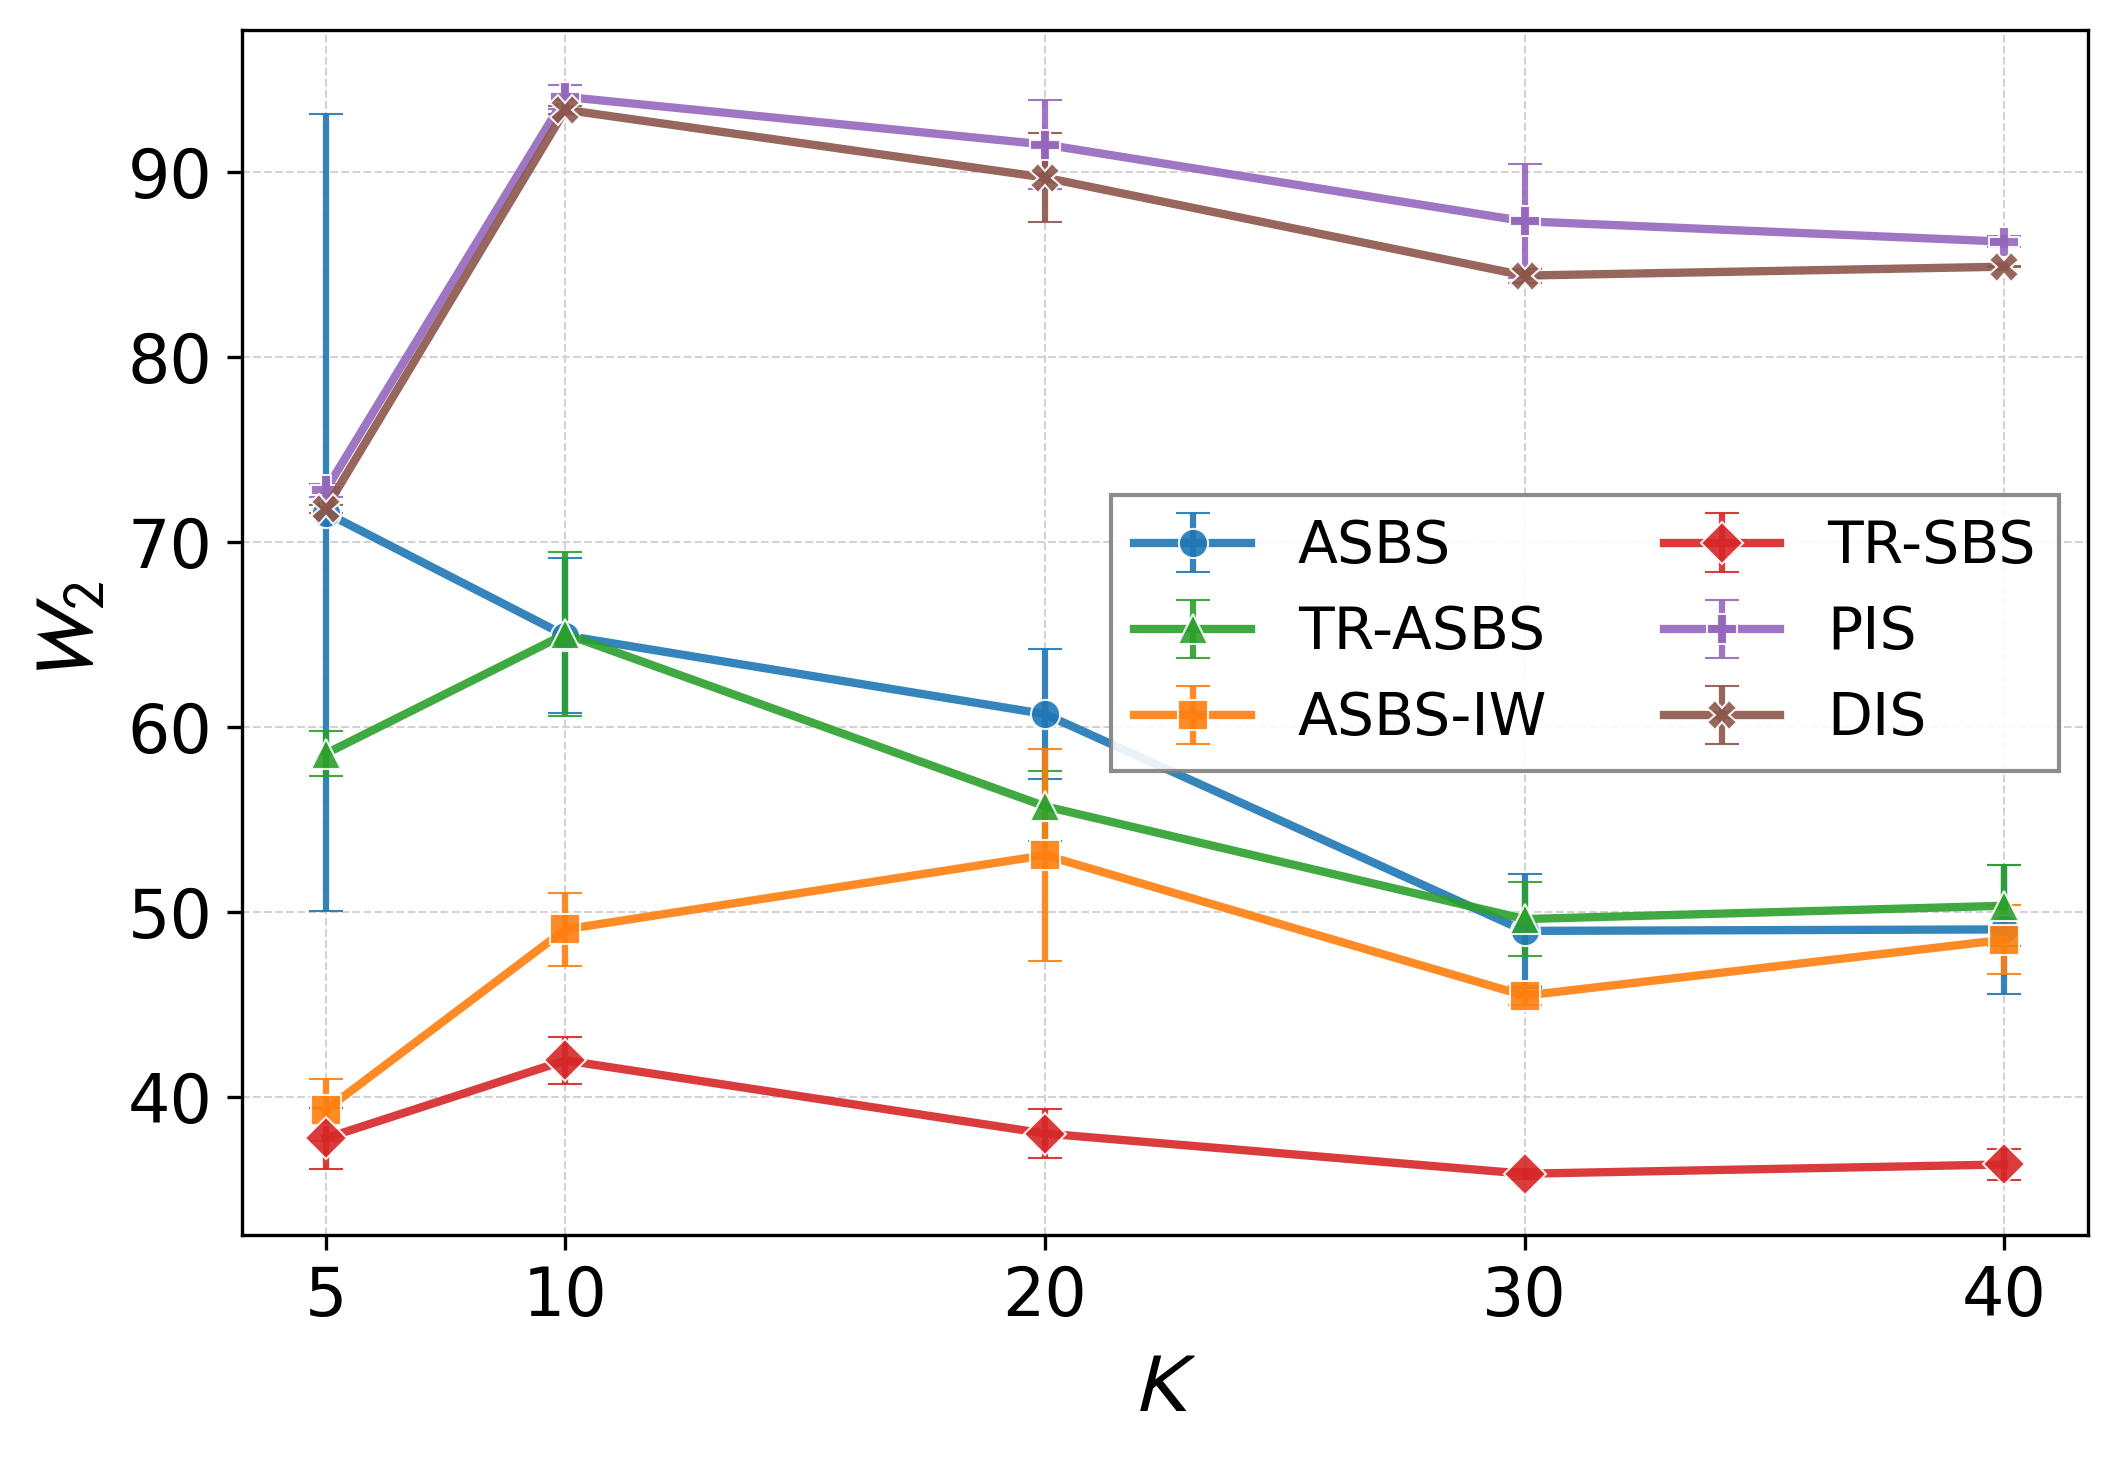
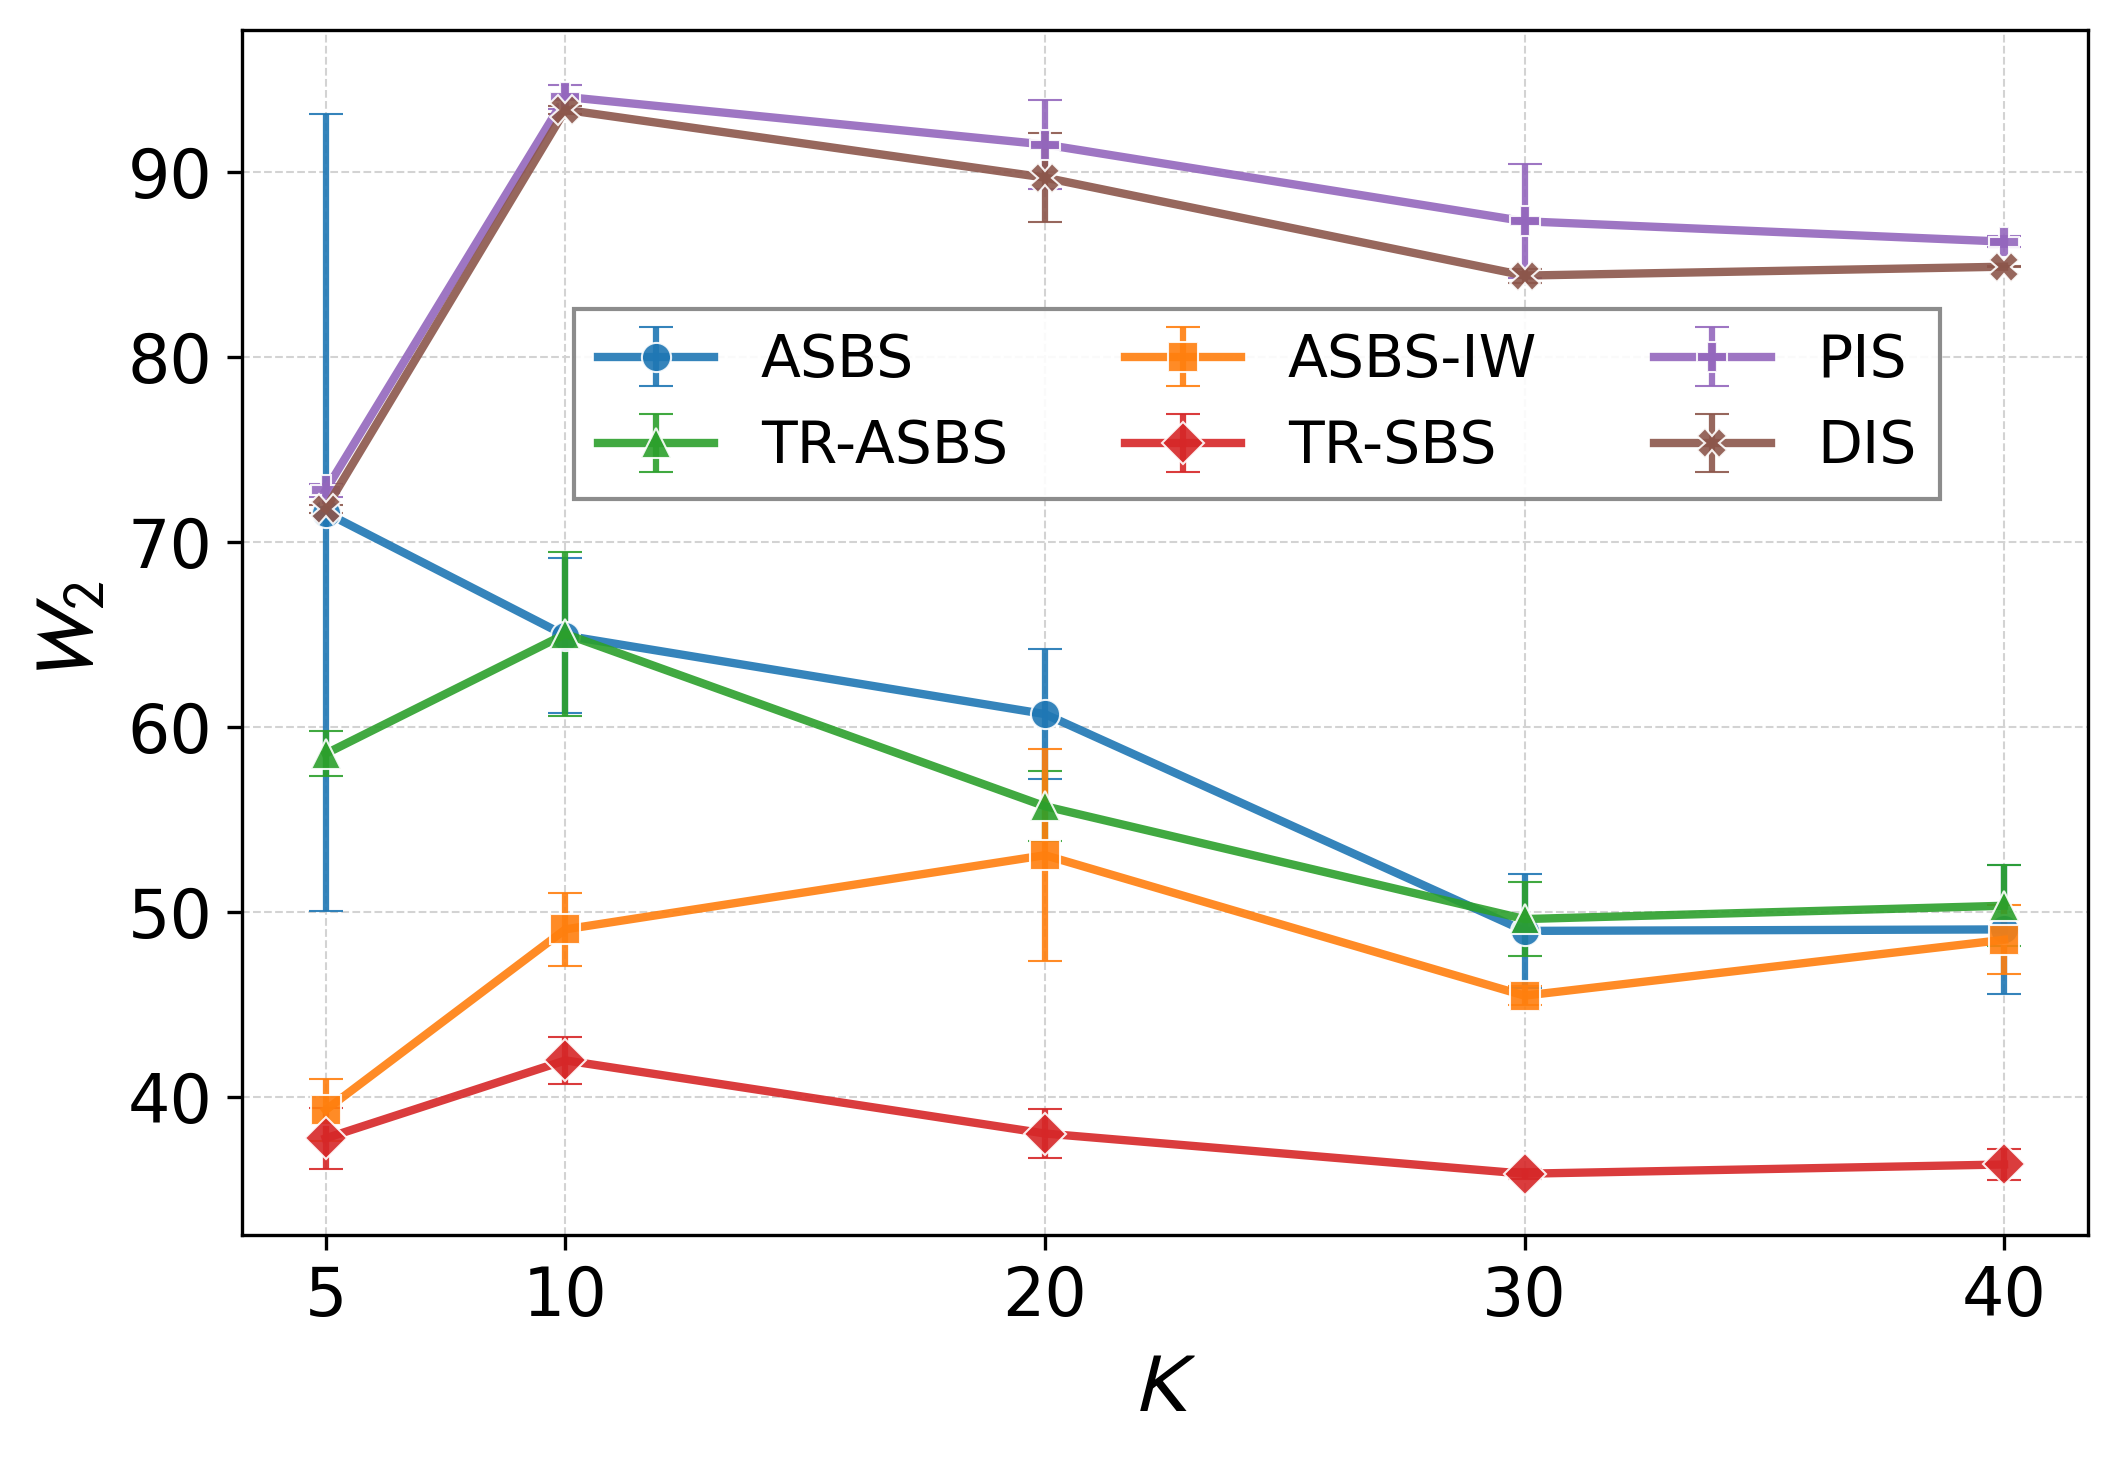
Keep GMM mode W2 legend clear of performance curves

Changed region(s): [[0.4986, 0.216, 0.966, 0.5556], [0.2805, 0.216, 0.4674, 0.3395]]

diff --git a/scripts/plot_gmm_six_method_grid.py b/scripts/plot_gmm_six_method_grid.py
@@ -173,6 +173,7 @@ def plot_one(
     interior_positions = {
         ("mode", "SD"): (0.5, 0.72),
         ("mode", "TVD"): (0.5, 0.76),
+        ("mode", "W2"): (0.55, 0.69),
         ("dim", "TVD"): (0.28, 0.77),
     }
     interior = interior_positions.get((suite, metric))
